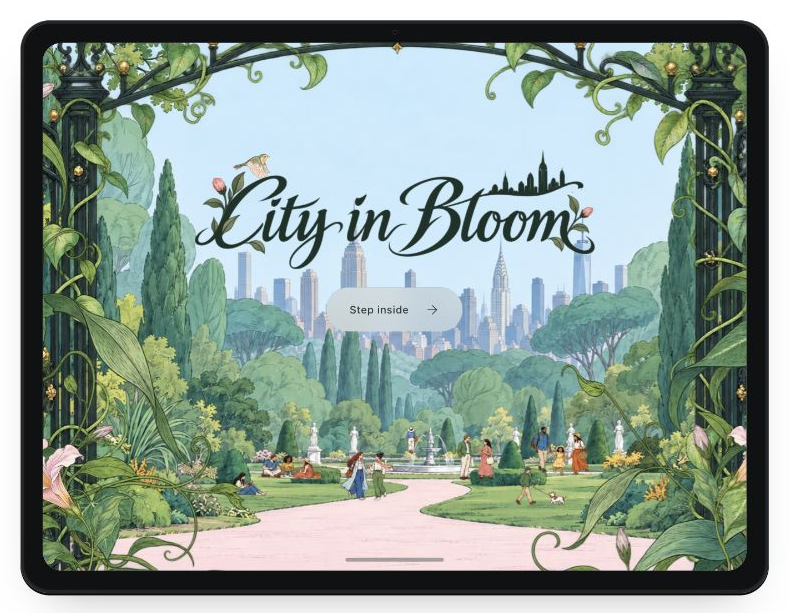
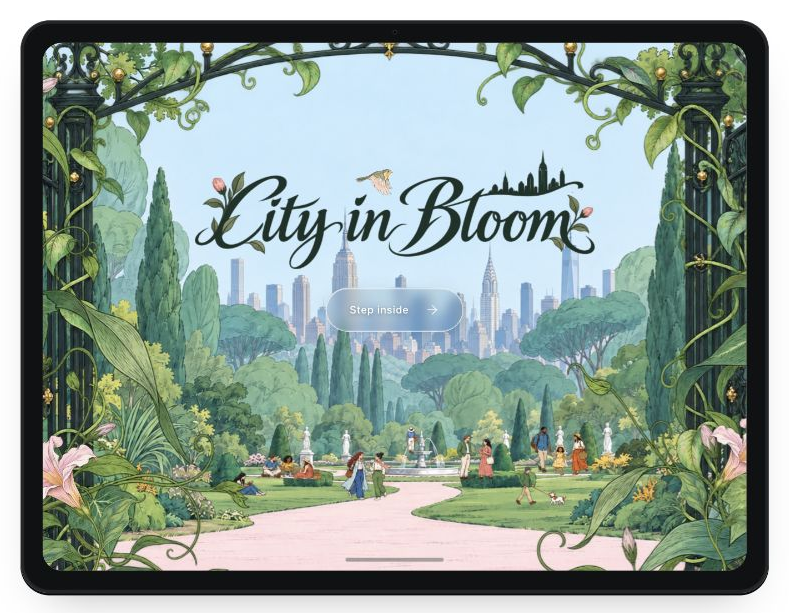
Style garden entry with white liquid glass and subtle blur

diff --git a/components/immersive/jardin-opening/jardin-opening.tsx b/components/immersive/jardin-opening/jardin-opening.tsx
@@ -99,8 +99,8 @@ const STYLES = `
 .jardin-opening .jardin-entry { min-height: 44px; gap: 16px; padding: 0 10px; font-size: max(9px, 1.1cqw); font-weight: 500; letter-spacing: .015em; }
 .jardin-opening button { -webkit-tap-highlight-color: transparent; cursor: pointer; }
 .jardin-opening button:focus-visible { outline: 2px solid currentColor; outline-offset: 5px; }
-.jardin-opening .jardin-primary { border-radius: 99px; padding: 0 23px; color: #253d37; background: #fff4db66; border: 0; -webkit-backdrop-filter: blur(22px) saturate(115%); backdrop-filter: blur(22px) saturate(115%); transition: background .2s; font-size: max(10px, 1.5cqw); }
-.jardin-opening .jardin-primary:hover { background: #fff4db99; }
+.jardin-opening .jardin-primary { border-radius: 99px; padding: 0 23px; color: #fff; background: linear-gradient(145deg, #ffffff29, #ffffff08) #15342b24; border: 1px solid #ffffffd9; -webkit-backdrop-filter: blur(6px) saturate(140%); backdrop-filter: blur(6px) saturate(140%); box-shadow: inset 0 1px 0 #ffffff59, inset 0 -1px 0 #ffffff1f, 0 3px 14px #0d2d2820; text-shadow: 0 1px 4px #0c2c2866; transition: background .2s, box-shadow .2s; font-size: max(10px, 1.5cqw); }
+.jardin-opening .jardin-primary:hover { background: linear-gradient(145deg, #ffffff3d, #ffffff14) #15342b24; box-shadow: inset 0 1px 0 #ffffff80, inset 0 -1px 0 #ffffff29, 0 4px 18px #0d2d2826; }
 .jardin-opening .jardin-home { position: absolute; bottom: 9px; left: 43%; width: 14%; height: 4px; border-radius: 99px; background: #253d3766; pointer-events: none; }
 .jardin-opening .jardin-visitors { position: absolute; inset: 0; z-index: 1; pointer-events: none; transform: translateX(-2%) scale(.75); transform-origin: 50% 85%; }
 .jardin-opening .jardin-life { position: absolute; inset: 0; z-index: 3; pointer-events: none; }
